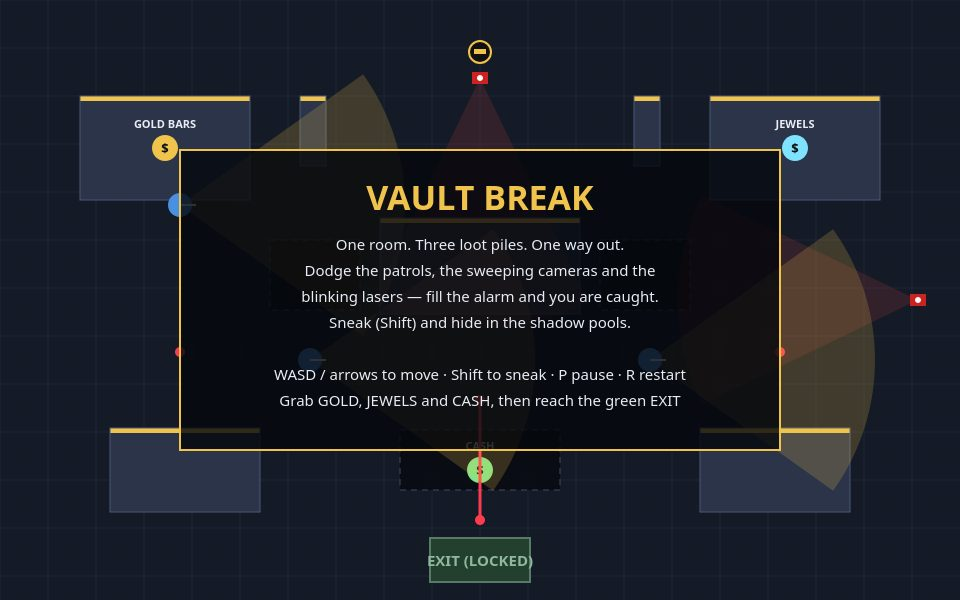
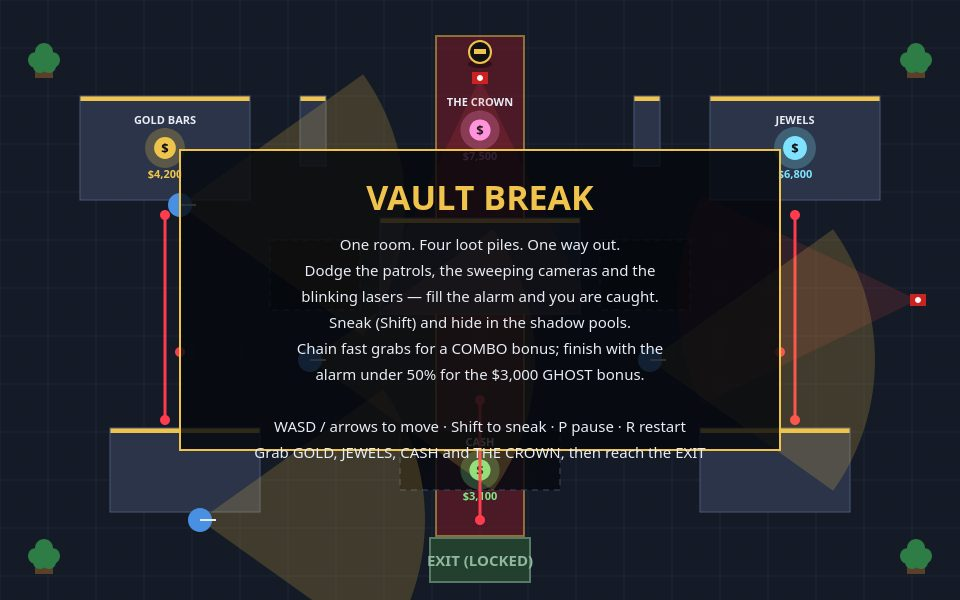
Vault Break v2: THE CROWN, 4th guard, side lasers, combo + ghost bonuses, particles, alarm vignette, carpet and props

diff --git a/game/src/main.js b/game/src/main.js
@@ -1,8 +1,10 @@
 // Vault Break — game flow: title, one vault room, caught and clean getaway.
-// Cross the room, grab GOLD, JEWELS and CASH, dodge the patrols, the
-// sweeping cameras and the blinking lasers, and leave by the green exit
-// before the alarm meter fills. Sneak (Shift) and the shadow pools make
-// you harder to spot; being seen is recoverable until the alarm is full.
+// Cross the room, grab GOLD, JEWELS, CASH and THE CROWN, dodge the
+// patrols, the sweeping cameras and the blinking lasers, and leave by
+// the green exit before the alarm meter fills. Sneak (Shift) and the
+// shadow pools make you harder to spot; being seen is recoverable until
+// the alarm is full. Fast grab chains pay a COMBO bonus, and finishing
+// with the alarm under 50% pays the GHOST bonus.
 //
 // Keys: WASD / arrows move, Shift sneak, P pause, R restart, Enter start.
 // ?shot=title|play|alarm|win stages a still scene for the screenshots
@@ -43,7 +45,27 @@ const state = {
   paused: false,
   laserHitAt: -10,
   alarmWarned: false,
+  particles: [],
+  combo: 0,
+  lastLootAt: -99,
+  maxAlarm: 0,
+  timeBonus: 0,
+  ghostBonus: 0,
+  comboBonus: 0,
 };
+
+function burst(x, y, color, n, speed, size) {
+  for (let i = 0; i < n; i++) {
+    const a = Math.random() * Math.PI * 2;
+    const v = (0.3 + Math.random() * 0.7) * speed;
+    state.particles.push({
+      x, y,
+      vx: Math.cos(a) * v, vy: Math.sin(a) * v - 18,
+      life: 0.7 + Math.random() * 0.6,
+      color, size: size * (0.6 + Math.random() * 0.8),
+    });
+  }
+}
 
 function startHeist() {
   state.player.x = ROOM.start.x;
@@ -59,6 +81,13 @@ function startHeist() {
   state.paused = false;
   state.laserHitAt = -10;
   state.alarmWarned = false;
+  state.particles = [];
+  state.combo = 0;
+  state.lastLootAt = -99;
+  state.maxAlarm = 0;
+  state.timeBonus = 0;
+  state.ghostBonus = 0;
+  state.comboBonus = 0;
   state.mode = 'play';
 }
 
@@ -80,6 +109,12 @@ function inRect(x, y, r) { return x >= r.x && x <= r.x + r.w && y >= r.y && y <=
 function step(dt) {
   if (state.paused) return;
   state.time += dt;
+  // particles drift and fade in every mode, so the win screen celebrates
+  for (const pt of state.particles) {
+    pt.x += pt.vx * dt; pt.y += pt.vy * dt;
+    pt.vy += 55 * dt; pt.life -= dt;
+  }
+  state.particles = state.particles.filter((pt) => pt.life > 0);
   if (state.mode !== 'play') return;
   const solids = solidsOf(state.room);
   const p = state.player;
@@ -132,6 +167,8 @@ function step(dt) {
     if (pointOnLaser(p.x, p.y, laser, state.time) && state.time - state.laserHitAt > 1) {
       state.laserHitAt = state.time;
       state.alarm = Math.min(100, state.alarm + 22);
+      state.combo = 0;
+      burst(p.x, p.y, '#ff3b4e', 12, 90, 3);
       alarmSound();
       blip(180, 0.2, 'square', 0.05);
     }
@@ -139,26 +176,37 @@ function step(dt) {
 
   if (strongest > 0) state.alarm = Math.min(100, state.alarm + strongest * 88 * dt);
   else state.alarm = Math.max(0, state.alarm - 30 * dt);
+  state.maxAlarm = Math.max(state.maxAlarm, state.alarm);
   if (state.alarm >= 80 && !state.alarmWarned) { state.alarmWarned = true; alarmSound(); }
   if (state.alarm < 70) state.alarmWarned = false;
 
   if (state.alarm >= 100) {
+    burst(p.x, p.y, '#ff3b4e', 22, 130, 4);
     state.mode = 'caught';
     caughtSound();
     return;
   }
 
-  // loot and the exit
+  // loot: a fast grab chain builds a combo worth bonus cash
   for (const l of state.loot) {
     if (!l.taken && Math.hypot(p.x - l.x, p.y - l.y) < 26) {
       l.taken = true;
       state.lootTaken += 1;
-      state.score += l.value;
+      state.combo = state.time - state.lastLootAt < 9 ? state.combo + 1 : 1;
+      state.lastLootAt = state.time;
+      const bonus = (state.combo - 1) * 500;
+      state.comboBonus += bonus;
+      state.score += l.value + bonus;
+      burst(l.x, l.y, l.color, 16, 110, 3.5);
       pickupSound();
     }
   }
-  if (state.lootTaken >= 3 && inRect(p.x, p.y, state.room.exit)) {
-    state.score += Math.max(0, 5000 - Math.floor(state.time) * 20);
+  if (state.lootTaken >= state.loot.length && inRect(p.x, p.y, state.room.exit)) {
+    state.timeBonus = Math.max(0, 5000 - Math.floor(state.time) * 20);
+    state.ghostBonus = state.maxAlarm < 50 ? 3000 : 0;
+    state.score += state.timeBonus + state.ghostBonus;
+    burst(p.x, p.y - 10, '#4be38a', 26, 150, 4);
+    burst(p.x, p.y - 10, '#f0c44c', 20, 120, 3.5);
     state.mode = 'win';
     winSound();
   }
@@ -173,13 +221,15 @@ function frame() {
   }
   if (state.mode === 'title') {
     drawBanner(ctx, 'VAULT BREAK', [
-      'One room. Three loot piles. One way out.',
+      'One room. Four loot piles. One way out.',
       'Dodge the patrols, the sweeping cameras and the',
       'blinking lasers — fill the alarm and you are caught.',
       'Sneak (Shift) and hide in the shadow pools.',
+      'Chain fast grabs for a COMBO bonus; finish with the',
+      'alarm under 50% for the $3,000 GHOST bonus.',
       '',
       'WASD / arrows to move · Shift to sneak · P pause · R restart',
-      'Grab GOLD, JEWELS and CASH, then reach the green EXIT',
+      'Grab GOLD, JEWELS, CASH and THE CROWN, then reach the EXIT',
     ], '#f0c44c');
   } else if (state.mode === 'caught') {
     drawBanner(ctx, 'CAUGHT!', [
@@ -190,7 +240,9 @@ function frame() {
     ], '#ff5a3c');
   } else if (state.mode === 'win') {
     drawBanner(ctx, 'CLEAN GETAWAY', [
-      `All three loot piles, $${state.score.toLocaleString()} in ${Math.floor(state.time)}s —`,
+      `All four loot piles, $${state.score.toLocaleString()} in ${Math.floor(state.time)}s —`,
+      `time bonus $${state.timeBonus.toLocaleString()} · combo $${state.comboBonus.toLocaleString()}` +
+        (state.ghostBonus ? ` · GHOST bonus $${state.ghostBonus.toLocaleString()}` : ''),
       'and not a single guard can say who did it.',
       '',
       'Press Enter to run the heist again',
@@ -208,6 +260,7 @@ function stageShot(name) {
     state.guards[1].x = 310; state.guards[1].y = 460; state.guards[1].angle = -1.2;
     state.cameras[0].angle = 1.2;
     state.loot[0].taken = true; state.lootTaken = 1; state.score = 4200;
+    state.combo = 1;
     state.alarm = 22;
   }
   if (name === 'alarm') {
@@ -221,8 +274,12 @@ function stageShot(name) {
   }
   if (name === 'win') {
     state.loot.forEach((l) => { l.taken = true; });
-    state.lootTaken = 3; state.score = 14100; state.time = 58;
+    state.lootTaken = 4; state.combo = 4;
+    state.timeBonus = 3840; state.ghostBonus = 3000; state.comboBonus = 1500;
+    state.score = 29940; state.time = 58;
     state.player.x = 480; state.player.y = 550;
+    burst(480, 540, '#4be38a', 26, 150, 4);
+    burst(480, 540, '#f0c44c', 20, 120, 3.5);
     state.mode = 'win';
   }
   frame();

diff --git a/game/src/render.js b/game/src/render.js
@@ -22,6 +22,27 @@ export function drawScene(ctx, state) {
   for (let x = 0; x < 960; x += 48) { ctx.beginPath(); ctx.moveTo(x, 0); ctx.lineTo(x, 600); ctx.stroke(); }
   for (let y = 0; y < 600; y += 48) { ctx.beginPath(); ctx.moveTo(0, y); ctx.lineTo(960, y); ctx.stroke(); }
 
+  // the red carpet: the rich client's path, straight down the middle
+  if (room.carpet) {
+    ctx.fillStyle = 'rgba(122,26,38,0.55)';
+    ctx.fillRect(room.carpet.x, room.carpet.y, room.carpet.w, room.carpet.h);
+    ctx.strokeStyle = 'rgba(240,196,76,0.5)';
+    ctx.lineWidth = 2;
+    ctx.strokeRect(room.carpet.x, room.carpet.y, room.carpet.w, room.carpet.h);
+    ctx.lineWidth = 1;
+  }
+
+  // potted plants in the corners: pure decoration, pure cover story
+  for (const prop of room.props || []) {
+    if (prop.kind !== 'plant') continue;
+    ctx.fillStyle = '#5a4028';
+    ctx.fillRect(prop.x - 9, prop.y + 2, 18, 12);
+    ctx.fillStyle = '#2e7d46';
+    for (const [dx, dy, r] of [[-8, -4, 8], [8, -4, 8], [0, -12, 9], [-4, 2, 7], [5, 2, 7]]) {
+      ctx.beginPath(); ctx.arc(prop.x + dx, prop.y + dy, r, 0, Math.PI * 2); ctx.fill();
+    }
+  }
+
   // shadow pools: safe dark ground
   for (const s of room.shadows) {
     ctx.fillStyle = 'rgba(8,10,18,0.85)';
@@ -44,7 +65,7 @@ export function drawScene(ctx, state) {
 
   // exit: green gate at the bottom, labelled
   const e = room.exit;
-  const exitOpen = state.lootTaken >= 3;
+  const exitOpen = state.lootTaken >= state.loot.length;
   ctx.fillStyle = exitOpen ? '#1f7a44' : '#23402e';
   ctx.fillRect(e.x, e.y, e.w, e.h);
   ctx.strokeStyle = exitOpen ? '#4be38a' : '#5a7a68';
@@ -55,17 +76,23 @@ export function drawScene(ctx, state) {
   ctx.textAlign = 'center';
   ctx.fillText(exitOpen ? 'EXIT — GO!' : 'EXIT (LOCKED)', e.x + e.w / 2, e.y + 28);
 
-  // loot piles
+  // loot piles: a pulsing glow, the prize and its price on show
   for (const l of state.loot) {
     if (l.taken) continue;
+    const pulse = 13 + Math.sin(state.time * 4 + l.x) * 2.5;
     ctx.fillStyle = l.color;
-    ctx.beginPath(); ctx.arc(l.x, l.y, 13, 0, Math.PI * 2); ctx.fill();
+    ctx.globalAlpha = 0.25;
+    ctx.beginPath(); ctx.arc(l.x, l.y, pulse + 9, 0, Math.PI * 2); ctx.fill();
+    ctx.globalAlpha = 1;
+    ctx.beginPath(); ctx.arc(l.x, l.y, pulse, 0, Math.PI * 2); ctx.fill();
     ctx.fillStyle = '#0b0e14';
     ctx.font = 'bold 13px sans-serif';
     ctx.fillText('$', l.x, l.y + 5);
     ctx.fillStyle = '#e8ecf4';
     ctx.font = 'bold 11px sans-serif';
-    ctx.fillText(l.label, l.x, l.y - 20);
+    ctx.fillText(l.label, l.x, l.y - 24);
+    ctx.fillStyle = l.color;
+    ctx.fillText(`$${l.value.toLocaleString()}`, l.x, l.y + 30);
   }
 
   // lasers
@@ -110,13 +137,15 @@ export function drawScene(ctx, state) {
     ctx.stroke();
     if (g.alert > 40) {
       ctx.fillStyle = '#ff5a3c';
-      ctx.font = 'bold 12px sans-serif';
-      ctx.fillText('!', g.x, g.y - 18);
+      ctx.font = 'bold 17px sans-serif';
+      ctx.fillText('!', g.x, g.y - 20);
     }
   }
 
-  // the thief: black coat, gold mask
+  // the thief: black coat, gold mask, and a swag bag that grows with the haul
   const p = state.player;
+  ctx.fillStyle = 'rgba(0,0,0,0.4)';
+  ctx.beginPath(); ctx.ellipse(p.x, p.y + 12, 12, 4, 0, 0, Math.PI * 2); ctx.fill();
   ctx.fillStyle = '#111';
   ctx.beginPath(); ctx.arc(p.x, p.y, 11, 0, Math.PI * 2); ctx.fill();
   ctx.strokeStyle = '#f0c44c';
@@ -124,10 +153,35 @@ export function drawScene(ctx, state) {
   ctx.beginPath(); ctx.arc(p.x, p.y, 11, 0, Math.PI * 2); ctx.stroke();
   ctx.fillStyle = '#f0c44c';
   ctx.fillRect(p.x - 6, p.y - 3, 12, 5);
+  if (state.lootTaken > 0) {
+    ctx.fillStyle = '#8a6d2f';
+    ctx.beginPath(); ctx.arc(p.x - 11, p.y + 8, 5 + state.lootTaken, 0, Math.PI * 2); ctx.fill();
+    ctx.fillStyle = '#f0c44c';
+    ctx.font = 'bold 9px sans-serif';
+    ctx.fillText('$', p.x - 11, p.y + 11);
+  }
   if (p.crouch) {
     ctx.fillStyle = '#f0c44c';
     ctx.font = '10px sans-serif';
     ctx.fillText('sneak', p.x, p.y - 16);
+  }
+
+  // particles: pickup sparkles, laser burns, getaway confetti
+  for (const pt of state.particles || []) {
+    ctx.globalAlpha = Math.max(0, Math.min(1, pt.life * 2));
+    ctx.fillStyle = pt.color;
+    ctx.beginPath(); ctx.arc(pt.x, pt.y, pt.size, 0, Math.PI * 2); ctx.fill();
+  }
+  ctx.globalAlpha = 1;
+
+  // the alarm closes in: a red pulse at the edge of vision when it runs hot
+  if (state.alarm > 55 && state.mode === 'play') {
+    const heat = (state.alarm - 55) / 45;
+    const pulse = 0.16 + 0.12 * Math.sin(state.time * 9);
+    ctx.strokeStyle = `rgba(255,40,50,${(heat * pulse + 0.08).toFixed(3)})`;
+    ctx.lineWidth = 26;
+    ctx.strokeRect(13, 13, 934, 574);
+    ctx.lineWidth = 1;
   }
 }
 
@@ -150,13 +204,17 @@ export function drawHud(ctx, state) {
   ctx.font = 'bold 12px sans-serif';
   ctx.fillText(`ALARM ${Math.round(state.alarm)}%`, 378, 22);
   ctx.fillStyle = '#f0c44c';
-  ctx.fillText(`LOOT ${state.lootTaken}/3  •  $${state.score.toLocaleString()}`, 520, 22);
+  ctx.fillText(`LOOT ${state.lootTaken}/${state.loot.length}  •  $${state.score.toLocaleString()}`, 520, 22);
+  if (state.combo > 1) {
+    ctx.fillStyle = '#ff8a3c';
+    ctx.fillText(`COMBO x${state.combo}`, 700, 22);
+  }
   ctx.fillStyle = '#9db1d4';
-  ctx.fillText(`TIME ${Math.floor(state.time)}s`, 760, 22);
+  ctx.fillText(`TIME ${Math.floor(state.time)}s`, 820, 22);
   ctx.fillStyle = '#9db1d4';
   ctx.font = '12px sans-serif';
-  const obj = state.lootTaken < 3
-    ? 'Grab all 3 loot piles, then reach the green EXIT'
+  const obj = state.lootTaken < state.loot.length
+    ? `Grab all ${state.loot.length} loot piles, then reach the green EXIT`
     : 'All loot grabbed — reach the green EXIT!';
   ctx.fillText(obj, 12, 52);
 }

diff --git a/game/src/level.js b/game/src/level.js
@@ -24,15 +24,26 @@ export const ROOM = {
     { x: 600, y: 240, w: 90, h: 70 },
     { x: 400, y: 430, w: 160, h: 60 },
   ],
+  // the red carpet runs from the entrance straight to the strongbox:
+  // the obvious path, and the most watched one
+  carpet: { x: 436, y: 36, w: 88, h: 500 },
+  props: [
+    { x: 44, y: 560, kind: 'plant' },
+    { x: 916, y: 560, kind: 'plant' },
+    { x: 44, y: 64, kind: 'plant' },
+    { x: 916, y: 64, kind: 'plant' },
+  ],
   loot: [
     { id: 'gold',   label: 'GOLD BARS',  value: 4200, x: 165, y: 148, taken: false, color: '#f0c44c' },
     { id: 'jewels', label: 'JEWELS',     value: 6800, x: 795, y: 148, taken: false, color: '#7fe3ff' },
     { id: 'cash',   label: 'CASH',       value: 3100, x: 480, y: 470, taken: false, color: '#7ee787' },
+    { id: 'crown',  label: 'THE CROWN',  value: 7500, x: 480, y: 130, taken: false, color: '#ff9ff3' },
   ],
   guards: [
     { x: 180, y: 205, waypoints: [{ x: 180, y: 205 }, { x: 780, y: 205 }], speed: 62 },
     { x: 310, y: 360, waypoints: [{ x: 310, y: 250 }, { x: 310, y: 500 }], speed: 54 },
     { x: 650, y: 360, waypoints: [{ x: 650, y: 500 }, { x: 650, y: 250 }], speed: 54 },
+    { x: 200, y: 520, waypoints: [{ x: 200, y: 520 }, { x: 760, y: 520 }], speed: 58 },
   ],
   cameras: [
     { x: 480, y: 78, base: Math.PI / 2, sweep: 0.9, speed: 0.55, range: 250 },
@@ -43,6 +54,9 @@ export const ROOM = {
     { x1: 180, y1: 352, x2: 780, y2: 352, period: 3.4, onTime: 2.0, phase: 0 },
     // vertical beam guarding the cash, offset phase so both are never on together
     { x1: 480, y1: 400, x2: 480, y2: 520, period: 3.4, onTime: 2.0, phase: 1.7 },
+    // side corridor beams guarding the west and east approaches
+    { x1: 165, y1: 215, x2: 165, y2: 420, period: 2.9, onTime: 1.7, phase: 0.8 },
+    { x1: 795, y1: 215, x2: 795, y2: 420, period: 2.9, onTime: 1.7, phase: 2.2 },
   ],
 };
 

diff --git a/README.md b/README.md
@@ -6,9 +6,11 @@
 
 An original one-room heist game for make.fun's **best-heist-game** bounty,
 written in plain JavaScript on a 2D canvas — no engine, no library, no network
-requests. You are the thief: cross one vault room, grab GOLD, JEWELS and CASH,
-dodge three patrolling guards, two sweeping security cameras and two blinking
-laser grids, and leave by the green exit before the alarm meter fills.
+requests. You are the thief: cross one vault room, grab GOLD, JEWELS, CASH
+and THE CROWN, dodge four patrolling guards, two sweeping security cameras
+and four blinking laser grids, and leave by the green exit before the alarm
+meter fills. Chain fast grabs for a COMBO bonus, and finish with the alarm
+under 50% for the $3,000 GHOST bonus.
 
 ## Play
 
@@ -28,8 +30,10 @@ jumps. Standing in a dashed shadow pool or sneaking shrinks the distance at
 which you can be picked out. The alarm in the top bar is your whole run:
 fill it and the vault doors slam shut; a guard who is sure of you gives
 chase, but loses the trail a few seconds after you break his sight, so a
-near miss is recoverable. Grab all three loot piles and the exit unlocks —
-reach it for a clean getaway, with a time bonus on your score.
+near miss is recoverable. Grab all four loot piles and the exit unlocks —
+reach it for a clean getaway, with time, combo and ghost bonuses on your
+score. Every grab bursts into sparkles, the thief's swag bag visibly grows
+with the haul, and a hot alarm pulses red at the edge of your vision.
 
 ## Hand in
 
